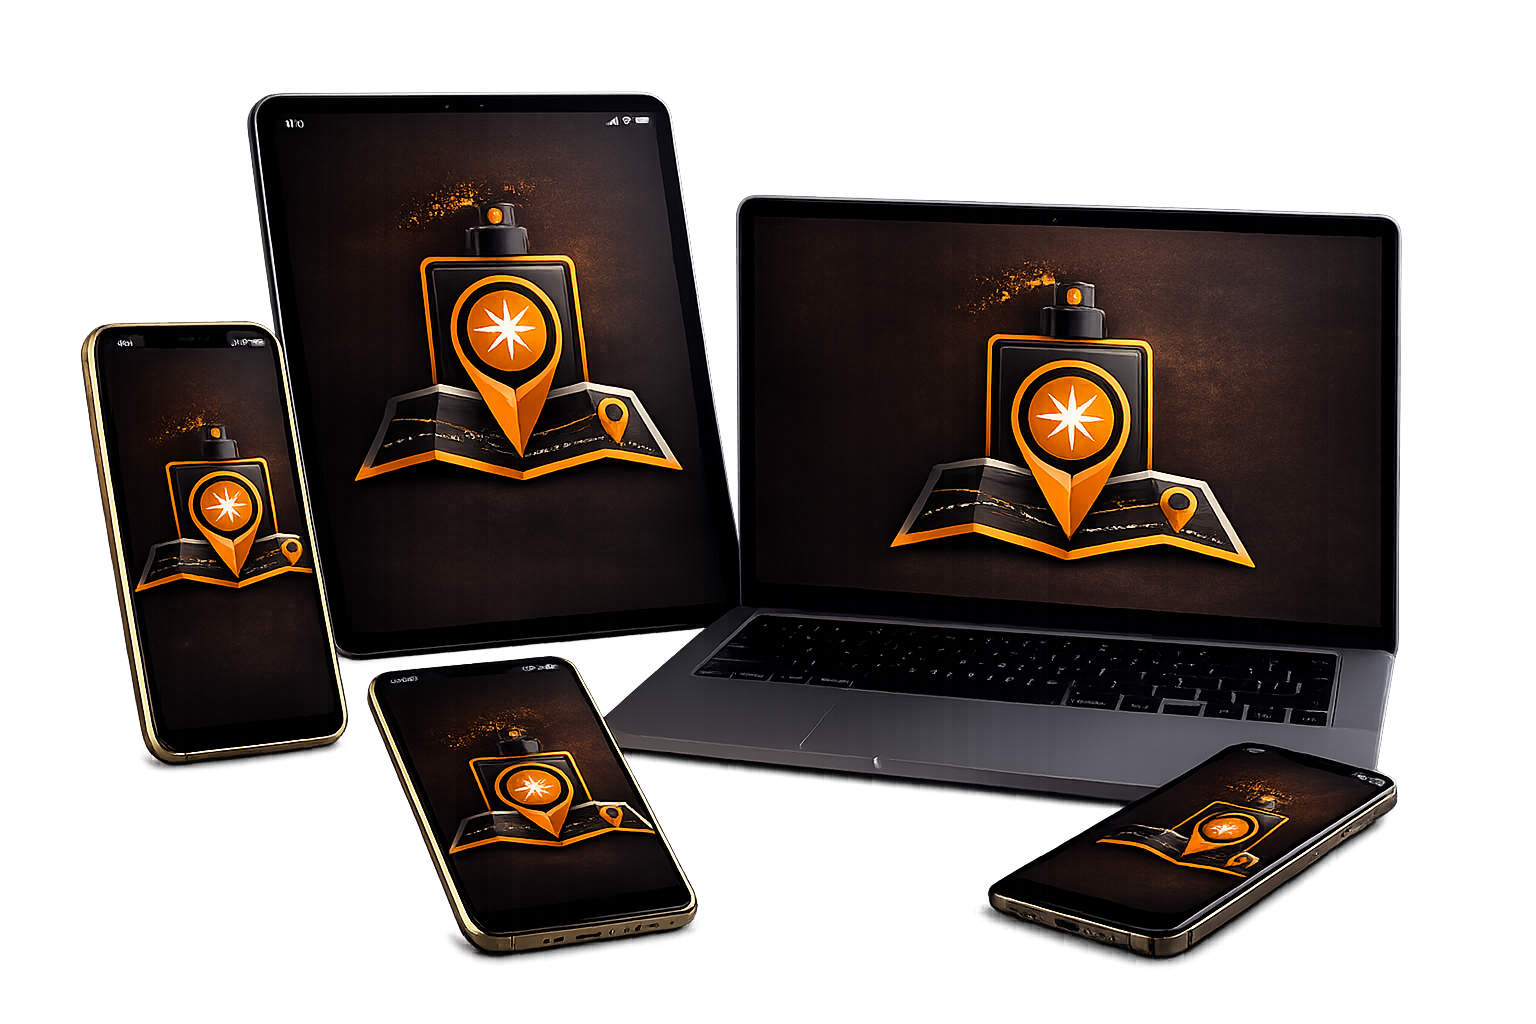
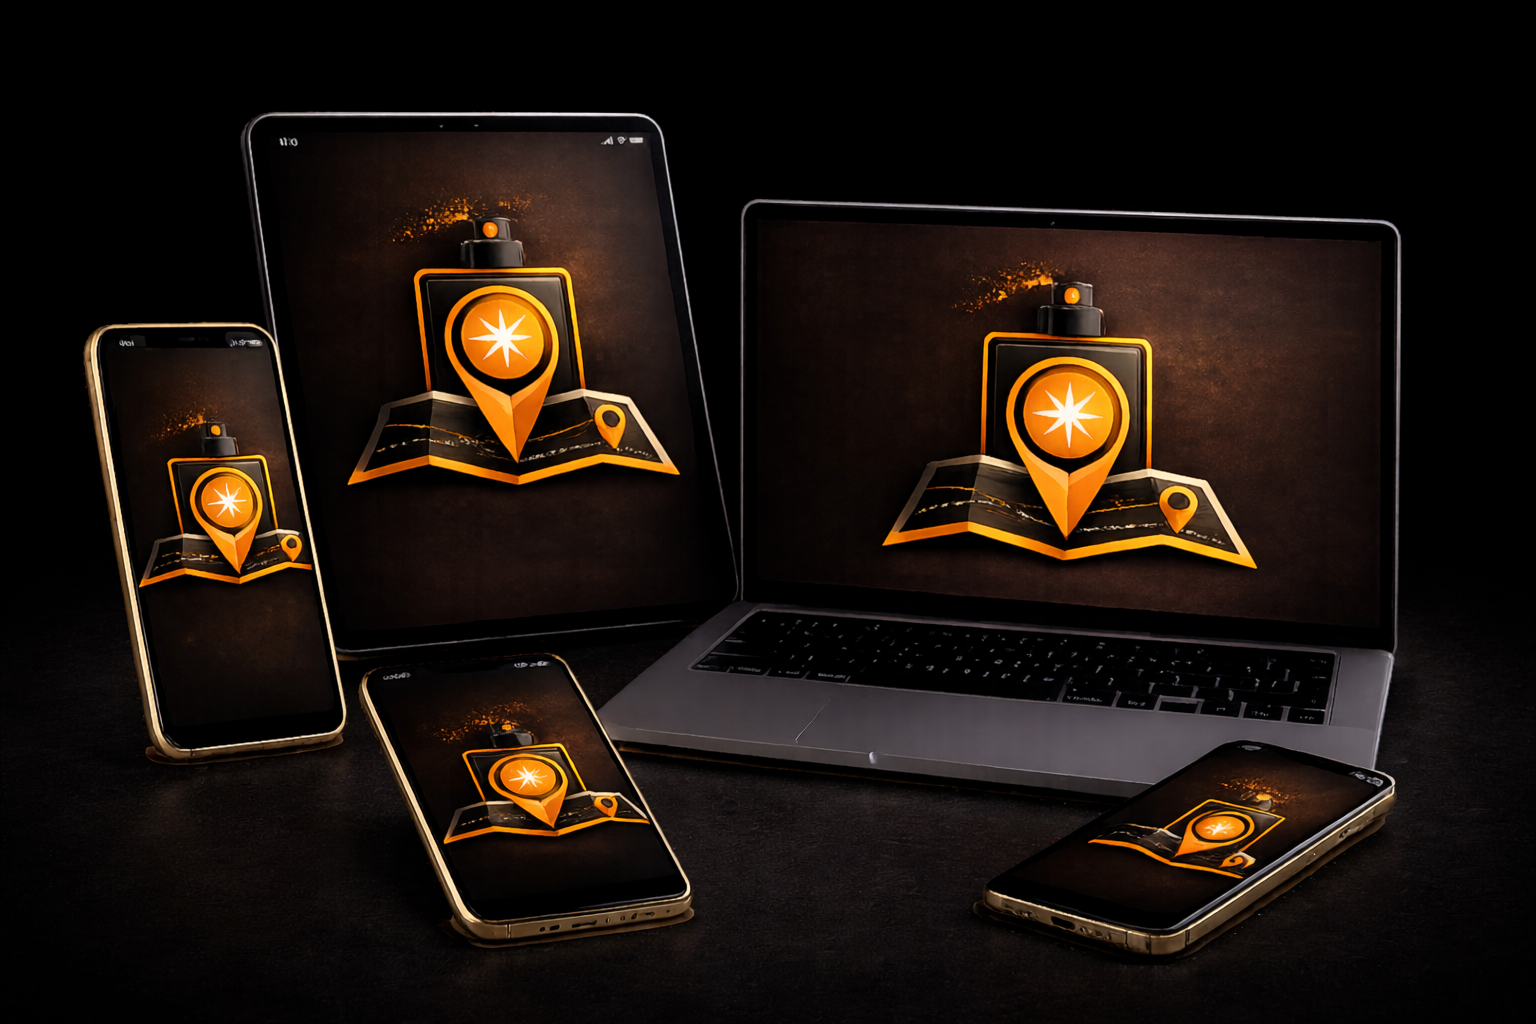
Dark theme on curso page, new hero image (img11), new Perfumap card (img12)

diff --git a/curso/index.html b/curso/index.html
@@ -182,8 +182,8 @@
         .hero::before {
             content: '';
             position: absolute; inset: 0;
-            background-image: url('images/victor-terno.jpg');
-            background-size: cover; background-position: 70% 4%;
+            background-image: url('images/victor-hero.jpg');
+            background-size: cover; background-position: 65% top;
             opacity: 1; z-index: 1;
         }
 
@@ -862,6 +862,99 @@
             .trust-badges, .highlights-footer { flex-direction: column; gap: 1rem; }
             .social-proof-badge { flex-direction: column; text-align: center; }
         }
+
+        /* ── TEMA ESCURO ─────────────────────────────────────── */
+        body { background: #0D0D0D; color: #CCCCCC; }
+
+        .section-title { color: #FFFFFF; }
+        .section-subtitle { color: #888888; }
+
+        /* Intro */
+        .intro-section { background: #141414; border-color: rgba(255,255,255,0.05); }
+        .intro-box { background: #1E1E1E; border-color: rgba(255,255,255,0.08); border-left-color: var(--orange); }
+        .intro-hook { color: #FFFFFF; }
+        .intro-text { color: #CCCCCC; }
+        .intro-text strong { color: #FFFFFF; }
+
+        /* Pain */
+        .pain-section { background: #0D0D0D; }
+        .pain-card { background: #1E1E1E; border-color: rgba(255,255,255,0.07); }
+        .pain-card:hover { border-color: var(--orange); }
+        .pain-text { color: #CCCCCC; }
+        .pain-verdict { color: #FFFFFF; background: rgba(232,93,4,0.1); }
+
+        /* Before/After */
+        .before-after { background: #141414; }
+        .ba-col.before { background: rgba(214,40,40,0.1); border-color: rgba(214,40,40,0.5); }
+        .ba-col.after { background: rgba(42,157,92,0.1); border-color: rgba(42,157,92,0.5); }
+        .ba-item { color: #CCCCCC; }
+
+        /* Modules */
+        .modules-section { background: #0D0D0D; }
+        .module-card { background: #1E1E1E; border-color: rgba(255,255,255,0.07); }
+        .module-card:hover { border-color: rgba(232,93,4,0.5); box-shadow: 0 8px 28px rgba(232,93,4,0.1); }
+        .module-body { background: #1E1E1E; }
+        .lesson-item { color: #CCCCCC; }
+        .lesson-subitem { color: #888888; }
+
+        /* Why */
+        .why-section { background: #141414; }
+        .why-card { background: #1E1E1E; box-shadow: none; border-left-color: var(--orange); }
+        .why-card-title { color: #FFFFFF; }
+        .why-card-content { color: #CCCCCC; }
+        .why-card-content strong { color: #FFFFFF; }
+
+        /* Comparison */
+        .comparison-card { background: #1E1E1E; border-color: rgba(255,255,255,0.07); }
+        .comparison-card.real { border-color: var(--success); }
+        .comparison-card.fake { border-color: rgba(214,40,40,0.5); }
+        .comparison-item { color: #CCCCCC; }
+        .comparison-cards-grid .comparison-card-item { background: #1E1E1E; }
+        .comparison-card-recommended { border-color: var(--success); }
+        .comparison-card-alt { border-color: rgba(255,255,255,0.07); }
+
+        /* Price */
+        .price-section { background: #141414; }
+        .price-box { background: #1E1E1E; }
+        .price-question { color: #888888; }
+        .price-reality { color: #CCCCCC; }
+        .price-reality strong { color: #FFFFFF; }
+        .price-comparison { background: rgba(255,255,255,0.04); color: #CCCCCC; }
+        .price-comparison strong { color: #FFFFFF; }
+        .trust-badge { background: rgba(255,255,255,0.04); border-color: rgba(255,255,255,0.08); }
+        .trust-badge-text { color: #888888; }
+        .trust-badge-text strong { color: #FFFFFF; }
+        .guarantee-text { color: #888888; }
+
+        /* FAQ */
+        .faq-section { background: #141414; }
+        .faq-item { background: #1E1E1E; border-color: rgba(255,255,255,0.07); }
+        .faq-item:hover { border-color: var(--orange); }
+        .faq-question { color: #FFFFFF; }
+        .faq-answer { color: #CCCCCC; }
+
+        /* About */
+        .about-section { background: #0D0D0D; }
+        .about-content { color: #CCCCCC; }
+        .about-content strong { color: #FFFFFF; }
+
+        /* Social proof */
+        .social-proof-badge { background: #1E1E1E; border-color: rgba(255,255,255,0.1); }
+        .social-proof-number { color: #FFFFFF; }
+        .social-proof-text { color: #888888; }
+        .economy-badge { background: rgba(42,157,92,0.08); }
+        .economy-badge-text { color: #CCCCCC; }
+        .economy-counter { background: rgba(42,157,92,0.08); }
+        .economy-counter-title { color: #888888; }
+        .economy-counter-subtitle { color: #CCCCCC; }
+
+        /* Testimonials section (old) */
+        .testimonials-section { background: #0D0D0D; }
+        .testimonial-card { background: #1E1E1E; border-color: rgba(255,255,255,0.07); }
+        .testimonial-caption { background: #1E1E1E; color: #888888; }
+
+        /* Divider */
+        .divider { background: linear-gradient(90deg, transparent, var(--orange), transparent); }
     </style>
 </head>
 <body>
